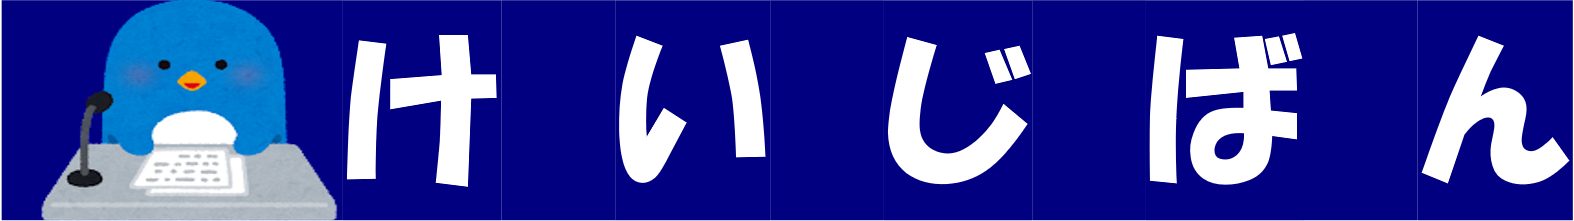
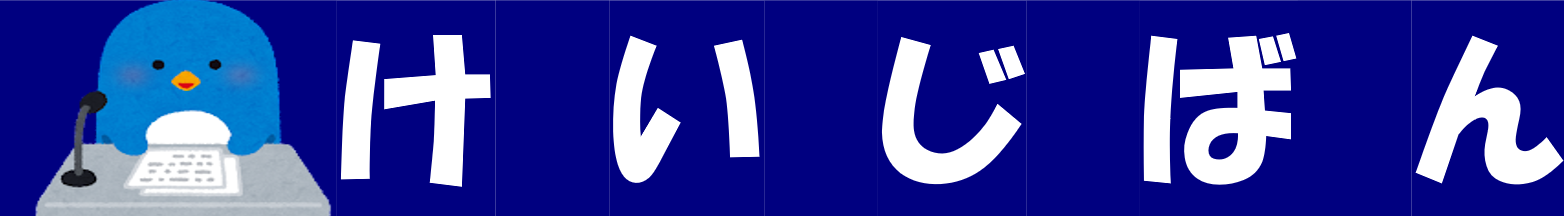
css

diff --git a/authtest/static/team4app/css/home.css b/authtest/static/team4app/css/home.css
@@ -2,3 +2,12 @@ h1 {
     border-bottom: solid 1px #191c7c;
 }
 
+#logo{
+    padding: top 20px; ;
+    background-color: #191c7c;
+    height: 100px;
+}
+#logo img{
+    padding: 0px 20px 10px 20px;
+    height: 100px;
+}
